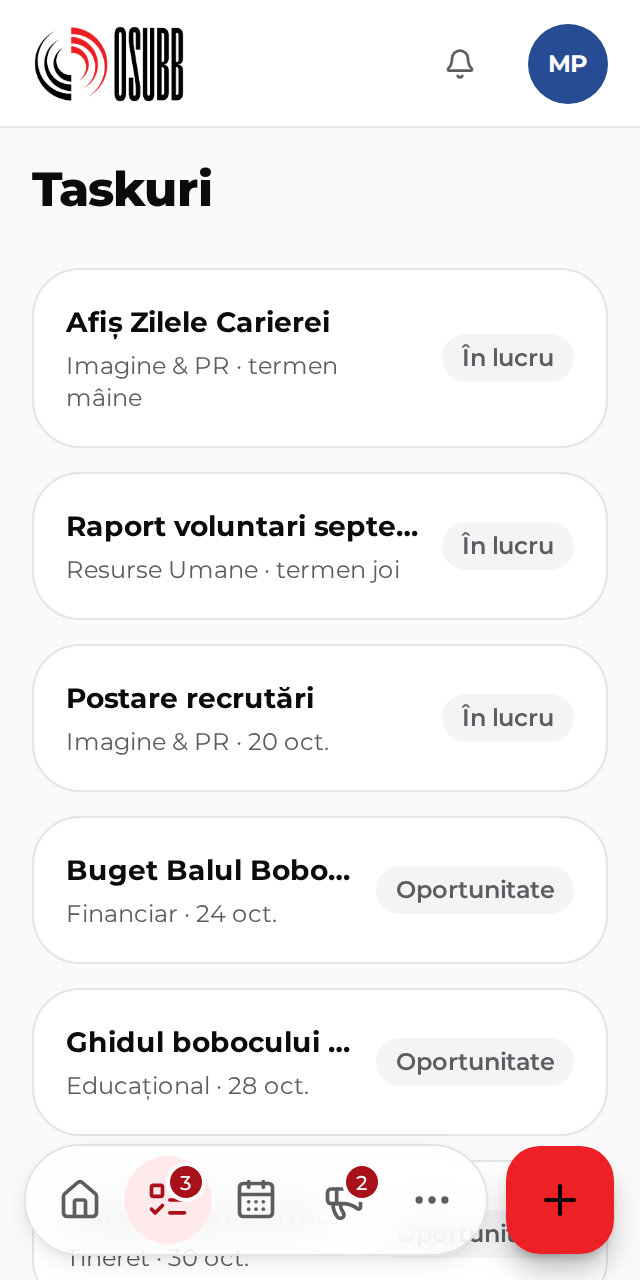
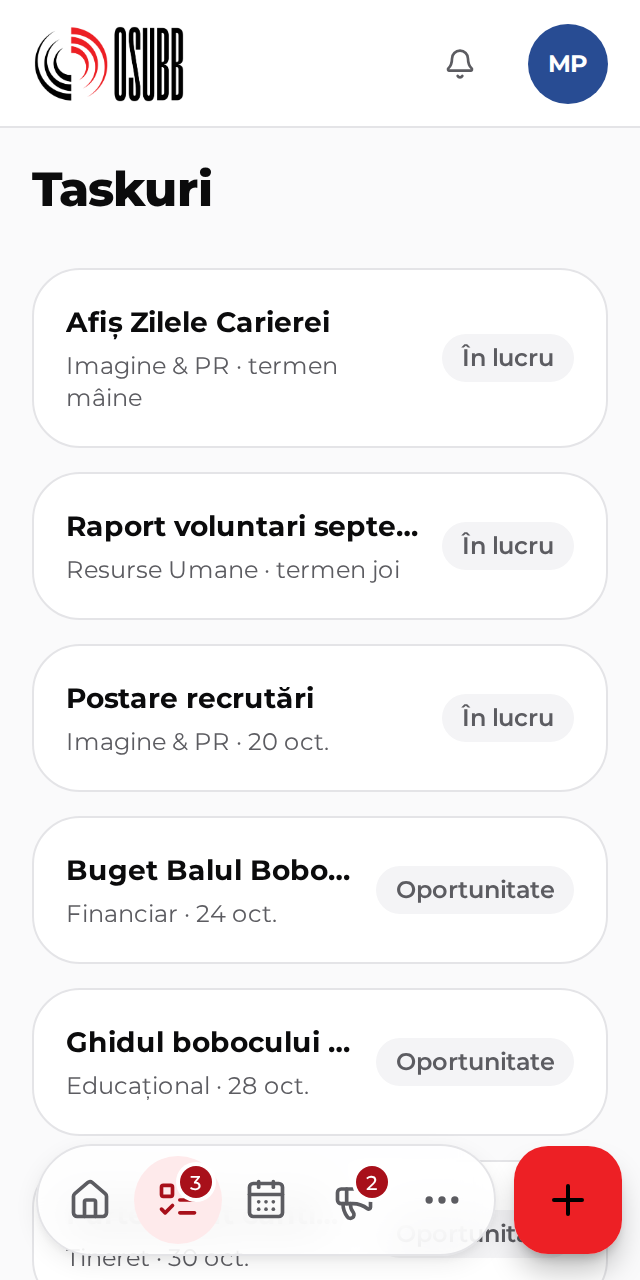
feat(app): a phone's bar is centred, with the plus button's room on both sides
The bar stood left of an empty place on a page without a plus button. It is
now as wide as the screen leaves between the button's place and its mirror
on the left, so it sits in the middle and does not move when the button
comes or goes. Under 375 px the left side gives way first.

diff --git a/app/src/components/shell/AppShell.tsx b/app/src/components/shell/AppShell.tsx
@@ -376,22 +376,31 @@ export default function AppShell() {
         </>
       </main>
 
-      {/* The foot of the content area. On a phone: the floating tab bar and,
-          beside it, the page's create button (`FabActions` draws it into the
-          slot). The slot keeps the button's place on a page without one, so
-          the bar stands in the same spot on every page. From `lg` the bar is
-          gone and the button keeps the bottom right corner, clear of the
-          sidebar. All of it steps aside for a phone keyboard. */}
+      {/* The foot of the content area. On a phone: the floating tab bar in
+          the middle of the screen and, on its right, the page's create button
+          (`FabActions` draws it into the slot). Equal room is kept on both
+          sides of the bar, so it is centred and stands in the same spot
+          whether or not the page has a button. Under 375 px the left side
+          gives way first and the bar sits a little left of centre. From `lg`
+          the bar is gone and the button keeps the bottom right corner, clear
+          of the sidebar. All of it steps aside for a phone keyboard. */}
       <div
         data-slot="bottom-bar"
-        className="pointer-events-none z-10 flex items-end justify-center gap-2 self-end px-3 pt-2 pb-[calc(.75rem+env(safe-area-inset-bottom))] [grid-area:main] *:pointer-events-auto lg:justify-end lg:p-6 keyboard:hidden"
+        className="pointer-events-none z-10 flex items-end self-end px-2 pt-2 pb-[calc(.75rem+env(safe-area-inset-bottom))] [grid-area:main] lg:p-6 keyboard:hidden"
       >
+        <div aria-hidden="true" className="min-w-0 flex-1 lg:hidden" />
         <TabBar tabs={tabs} more={more} badges={badges} />
+        {/* The button's side: never narrower than the button and its gap. */}
         <div
-          ref={setFabSlot}
-          data-slot="fab-slot"
-          className="empty:invisible max-lg:size-14 max-lg:shrink-0 lg:empty:hidden"
-        />
+          data-slot="fab-side"
+          className="flex min-w-16 flex-1 justify-start lg:justify-end"
+        >
+          <div
+            ref={setFabSlot}
+            data-slot="fab-slot"
+            className="pointer-events-auto max-lg:ml-2"
+          />
+        </div>
       </div>
     </div>
   );

diff --git a/app/src/components/shell/TabBar.tsx b/app/src/components/shell/TabBar.tsx
@@ -27,8 +27,8 @@ const tabClass =
  * icons, each with its name for a screen reader; a tinted thumb slides to the
  * current one — or to Mai mult, on a page from its drawer. The page's plus
  * button stands beside the capsule (the shell's bottom bar), the one solid
- * red thing here; its place is kept on a page without one, so the five never
- * move under the thumb. Five icons always fit, so the bar never scrolls.
+ * red thing here; the capsule is centred with that button's room kept on
+ * both sides, so the five never move under the thumb. Five icons always fit, so the bar never scrolls.
  *
  * While a phone keyboard is open the bar steps aside (#1013). It floats over
  * the page: frosted, with the page scrolling under it; the shell leaves its
@@ -95,12 +95,14 @@ export function TabBar({
     <nav
       aria-label="Navigare rapidă"
       data-slot="tab-bar"
-      className="max-w-80 min-w-0 flex-1 lg:hidden"
+      // As wide as the screen leaves between the plus button's place and
+      // its mirror on the left; never narrower than five 44 px places.
+      className="pointer-events-auto w-[clamp(14.375rem,calc(100vw-9rem),20rem)] shrink-0 lg:hidden"
     >
       <div
         ref={bar}
         // No gap: five 44 px places and the plus just fit a 320 px phone.
-        className="relative flex rounded-full border border-border bg-card/80 p-[5px] shadow-(--sh-md) backdrop-blur-md"
+        className="relative flex rounded-full border border-border bg-card/80 px-1 py-[5px] shadow-(--sh-md) backdrop-blur-md"
       >
         {thumb && (
           <span

diff --git a/app/src/components/shell/AppShell.test.tsx b/app/src/components/shell/AppShell.test.tsx
@@ -828,17 +828,23 @@ describe('phone navigation (#972)', () => {
     ).toBeNull();
   });
 
-  it('keeps the plus button’s place beside the bar on a page without one', () => {
+  it('centres the bar with the plus button’s room kept on both sides, on a page without one too', () => {
     renderShell('/');
-    const slot = document.querySelector('[data-slot="fab-slot"]');
-    expect(slot).toBeEmptyDOMElement();
-    // As wide as the button and unseen on a phone; gone from `lg`.
-    expect(slot).toHaveClass(
-      'max-lg:size-14',
-      'max-lg:shrink-0',
-      'empty:invisible',
-      'lg:empty:hidden',
+    const quick = screen.getByRole('navigation', { name: 'Navigare rapidă' });
+    const [left, bar, side] = [
+      ...(quick.closest('[data-slot="bottom-bar"]') as HTMLElement).children,
+    ] as HTMLElement[];
+    expect(bar).toBe(quick);
+    // Its width leaves 2 × (8 px edge + 56 px button + 8 px gap) free.
+    expect(quick).toHaveClass(
+      'w-[clamp(14.375rem,calc(100vw-9rem),20rem)]',
+      'shrink-0',
     );
+    // Both sides grow alike; the button's never drops under its 64 px.
+    expect(left).toHaveClass('flex-1', 'min-w-0');
+    expect(side).toHaveClass('flex-1', 'min-w-16');
+    const slot = side?.querySelector('[data-slot="fab-slot"]');
+    expect(slot).toBeEmptyDOMElement();
   });
 
   it('reaches Profil only from the avatar in the top bar on a phone', () => {

diff --git a/DESIGN.md b/DESIGN.md
@@ -188,8 +188,8 @@ dates in a column) use tabular figures. Uppercase micro-labels are not used.
 - **Touch targets** are 44 px. A control may look smaller; its hit area may not.
 - **The plus button** is the page's create action. On a phone it stands
   beside the tab bar, a rounded square as tall as the bar, and is there only
-  on a page where the member can create something; its place is kept empty
-  on the others, so the bar never moves. From 1024 px it is round,
+  on a page where the member can create something. The bar is centred
+  with the button's room kept on both sides, so it never moves. From 1024 px it is round,
   in the content area's bottom-right corner. One create action: the plus is
   that action. Several: it opens them, the first nearest the thumb. A page
   ends with room to scroll clear of it.
